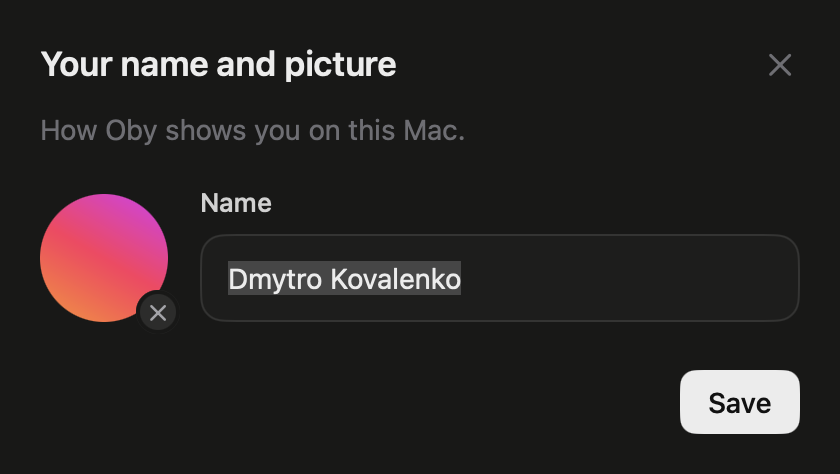
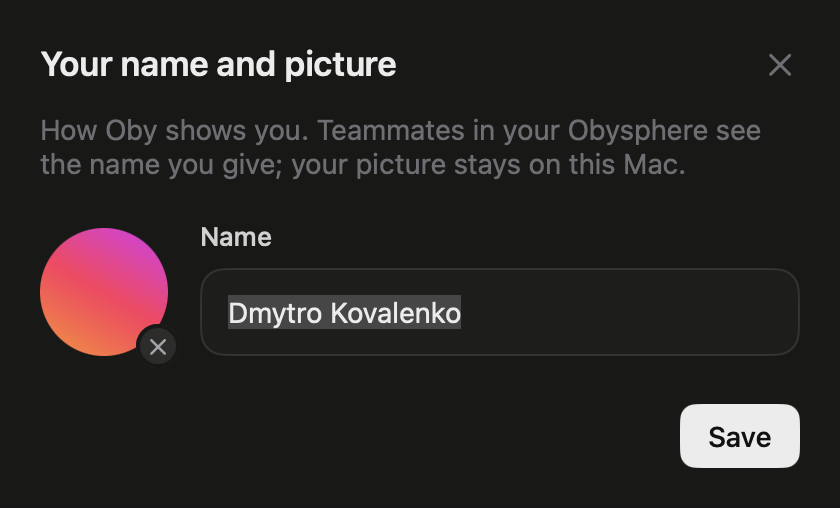
feat(mac): teammates see the name you give in Oby, carried in your Oby's Obysphere card
The card's `name` is "<the name you gave>'s Oby", else "<owner>'s Oby"; never
your macOS name unless you typed it (the sheet now prefills only a name you
gave). The Mac reads the card obid already returns in GET /v1/obid/sphere and
signs a new one, with the same accepts, when its name is behind: at once when
you change it, else at the 5-minute look that already re-signed for the seal
key (sealCard is now renewCard). No protocol or obid change.

Teammates' Macs show the card's name without its "'s Oby" in the Obysphere
panel and Settings › Obysphere, with the owner id in the row's help and the
about line; a name a card can't carry, or none, is the owner id. Where keys
are compared (the key-change card, the compare dialog) the owner id stays.

diff --git a/apps/mac/app/Sphere.swift b/apps/mac/app/Sphere.swift
@@ -505,6 +505,9 @@ final class SphereModel {
         /// does (#1233), and the request types the card accepts.
         var sealing: String?
         var accepts: [String]?
+        /// The owner-signed card obid holds, of which the Mac reads only its name.
+        var card: Card?
+        struct Card: Decodable, Equatable { var name: String? }
     }
 
     /// One entry of the Sphere's directory.
@@ -676,7 +679,7 @@ final class SphereModel {
             guard let obi = entry["obi"] as? String, obi != membership?.obiId, entry["status"] as? String == "active" else { return nil }
             let params = ((entry["card"] as? [String: Any])?["capabilities"] as? [String: Any])
                 .flatMap { ($0["extensions"] as? [[String: Any]])?.first?["params"] as? [String: Any] }
-            return Member(obi: obi, owner: entry["owner"] as? String ?? "", name: (entry["card"] as? [String: Any])?["name"] as? String ?? obi,
+            return Member(obi: obi, owner: entry["owner"] as? String ?? "", name: (entry["card"] as? [String: Any])?["name"] as? String ?? "",
                           active: entry["status"] as? String == "active", accepts: params?["accepts"] as? [String] ?? [])
         }
         // The fingerprints to compare with each person, from the keys obid pinned.
@@ -994,7 +997,7 @@ final class SphereModel {
         for obi in ids {
             do {
                 let made = try await raw(runner, "POST", "v1/obid/sphere/card", [
-                    "url": url, "sphere": invite.sphere, "obiId": obi, "name": "\(owner)'s Oby",
+                    "url": url, "sphere": invite.sphere, "obiId": obi, "name": Self.cardName(owner, given: Profile.shared.given),
                     "ownerKey": key.publicKey, "accepts": Self.accepts,
                 ])
                 guard let card = made["card"] as? [String: Any] else { throw RunnerError(message: "obid made no card.") }
@@ -1077,7 +1080,7 @@ final class SphereModel {
         }
         let key = try OwnerKey.of(membership.owner)
         let made = try await raw(runner, "POST", "v1/obid/sphere/card", [
-            "url": url, "sphere": sphere, "obiId": obi, "name": "\(membership.owner)'s Oby",
+            "url": url, "sphere": sphere, "obiId": obi, "name": Self.cardName(membership.owner, given: Profile.shared.given),
             "ownerKey": key.publicKey, "accepts": sharing ? Self.accepts + ["run_request", "share_offer"] : Self.accepts,
         ])
         guard let card = made["card"] as? [String: Any] else { throw RunnerError(message: "obid made no card.") }
@@ -1114,18 +1117,35 @@ final class SphereModel {
         return true
     }
 
-    /// A new card with obid's seal key, once, when the card obid holds has none (#1233): the same
-    /// `accepts`, signed with this Mac's owner key, so teammates' Obys seal what they send this one.
-    /// Answers whether it signed one.
+    /// What this Mac's Oby is called in its card, which teammates' Obys show (spec identity.md
+    /// section 2: its owner writes it, and a new card may change it): "<the name you gave in Oby>'s
+    /// Oby", else "<owner>'s Oby". Never your macOS name unless you gave it, nor a name a card can't
+    /// carry.
+    nonisolated static func cardName(_ owner: String, given: String) -> String {
+        "\(given.isEmpty || given.unicodeScalars.count > 90 || !isLineText(given) ? owner : given)'s Oby"
+    }
+
+    /// One line a card's `name` may carry (common.schema.json's `line_text`): no control character,
+    /// no bidirectional override or isolate.
+    nonisolated static func isLineText(_ text: String) -> Bool {
+        !text.unicodeScalars.contains { $0.value < 0x20 || $0.value == 0x7F || (0x202A...0x202E).contains($0.value) || (0x2066...0x2069).contains($0.value) }
+    }
+
+    /// A new card, once, when the one obid holds is behind: without obid's seal key (#1233), so
+    /// teammates' Obys seal what they send this one, or with another name than `cardName` (the owner
+    /// changed theirs). The same `accepts`, signed with this Mac's owner key. Answers whether it
+    /// signed one.
     @discardableResult
-    func sealCard() async throws -> Bool {
+    func renewCard() async throws -> Bool {
         let runner = try runner()
         let membership: Membership = try await runner.call("GET", "v1/obid/sphere")
-        guard membership.state == "joined", membership.sealing == "card_needed", let url = membership.url,
+        let name = Self.cardName(membership.owner, given: Profile.shared.given)
+        let renamed = membership.card.map { $0.name != name } ?? false
+        guard membership.state == "joined", membership.sealing == "card_needed" || renamed, let url = membership.url,
               let sphere = membership.sphere, let obi = membership.obiId else { return false }
         let key = try OwnerKey.of(membership.owner)
         let made = try await raw(runner, "POST", "v1/obid/sphere/card", [
-            "url": url, "sphere": sphere, "obiId": obi, "name": "\(membership.owner)'s Oby",
+            "url": url, "sphere": sphere, "obiId": obi, "name": name,
             "ownerKey": key.publicKey, "accepts": membership.accepts ?? Self.accepts,
         ])
         guard let card = made["card"] as? [String: Any] else { throw RunnerError(message: "obid made no card.") }
@@ -1136,7 +1156,7 @@ final class SphereModel {
     /// Keeps this Mac's Oby in its Obysphere past 30 days (#1215): a new delegation at launch, once
     /// obid answers, then every 6 hours once 5 or fewer days are left. And a new card as soon as
     /// obid says `card_needed` (#1233): to say it reads seal keys, or with its own once its team can
-    /// read one, so teammates seal what they send it.
+    /// read one, so teammates seal what they send it; or once its name isn't the owner's (`cardName`).
     static func keepRenewing(feed: RunnerFeed) async {
         let sphere = SphereModel(feed: feed)
         var renewed: Date?
@@ -1145,7 +1165,7 @@ final class SphereModel {
                (try? await sphere.renewDelegation(within: renewed == nil ? .infinity : 5 * 86_400)) != nil {
                 renewed = .now
             }
-            _ = try? await sphere.sealCard()
+            _ = try? await sphere.renewCard()
             // ponytail: polls obid on this Mac; 60 s until it first answers, then every 5 minutes for
             // `card_needed` (obid has no membership event to wait on), the delegation every 6 hours.
             try? await Task.sleep(for: .seconds(renewed == nil ? 60 : 300))

diff --git a/apps/mac/tests/SphereTests.swift b/apps/mac/tests/SphereTests.swift
@@ -55,6 +55,30 @@ struct SphereTests {
         #expect(SpherePanel.shown("well-prado") == "Well-prado")
     }
 
+    /// Your Oby's card carries the name you gave in Oby, else your owner id: never your macOS name,
+    /// nor what a card can't carry (spec common.schema.json `line_text`, at most 100 characters).
+    @Test func aCardIsNamedForWhatYouGave() {
+        #expect(SphereModel.cardName("wellprado", given: "") == "wellprado's Oby")
+        #expect(SphereModel.cardName("wellprado", given: "Wellington Prado") == "Wellington Prado's Oby")
+        #expect(SphereModel.cardName("wellprado", given: "Well\u{202E}odarP") == "wellprado's Oby")
+        #expect(SphereModel.cardName("wellprado", given: "Well\nPrado") == "wellprado's Oby")
+        #expect(SphereModel.cardName("wellprado", given: String(repeating: "W", count: 91)) == "wellprado's Oby")
+    }
+
+    /// Teammates show the name a member's card carries without its "'s Oby", else their owner id;
+    /// a name no Oby would sign is their owner id too.
+    @Test func aMemberShowsTheNameTheyGave() {
+        func member(_ name: String) -> SphereModel.Member { .init(obi: "obi-mallory", owner: "mallory", name: name, active: true, accepts: []) }
+        #expect(SpherePanel.shown(member("Mallory Lima's Oby")) == "Mallory Lima")
+        #expect(SpherePanel.shown(member("mallory's Oby")) == "Mallory")
+        #expect(SpherePanel.shown(member("")) == "Mallory")
+        #expect(SpherePanel.shown(member("'s Oby")) == "Mallory")
+        #expect(SpherePanel.shown(member("Mallory's Obi")) == "Mallory")
+        #expect(SpherePanel.shown(member("\u{202E}yrtmyD's Oby")) == "Mallory")
+        // Their key still goes by their owner id, whatever they're called.
+        #expect(KeyChangeCard.title(SphereModel.Pin(owner: "mallory", fingerprint: "ed25519:a", changedTo: "ed25519:b")) == "Mallory’s Oby has a new key")
+    }
+
     @Test func canonicalJSONIsRFC8785ForTheProtocolsValues() {
         let value: [String: Any] = ["b": [true, false, NSNull()], "a": 1, "é": "x", "c": ["z": "\"\\\n\u{1}/é"]]
         #expect(String(decoding: Canonical.json(value), as: UTF8.self) == #"{"a":1,"b":[true,false,null],"c":{"z":"\"\\\n\u0001/é"},"é":"x"}"#)
@@ -467,14 +491,51 @@ struct SphereTests {
             return (stub, SphereModel(feed: feed))
         }
         let (needed, sphere) = obid(sealing: "card_needed")
-        #expect(try await sphere.sealCard())
+        #expect(try await sphere.renewCard())
         let made = try #require(needed.requests.first { $0.method == "POST" })
         #expect(made.json?["accepts"] as? [String] == ["review_request", "question"])
         let put = try #require(needed.requests.last)
         #expect(put.method == "PUT" && put.json?["card"] != nil && put.json?["delegation"] == nil)
         let (on, sealed) = obid(sealing: "on")
-        #expect(try await !sealed.sealCard())
+        #expect(try await !sealed.renewCard())
         #expect(on.requests.allSatisfy { $0.method == "GET" })
+    }
+
+    /// A card with another name than the one you gave in Oby is signed again once, named for it; one
+    /// already named for it, never.
+    @MainActor @Test func aCardIsSignedAgainForANewName() async throws {
+        let owner = "tester-\(UUID().uuidString.lowercased().prefix(8))"
+        let before = Profile.shared
+        Profile.shared = Profile(defaults: .scratch, file: URL(filePath: NSTemporaryDirectory()).appending(path: "profile-\(UUID().uuidString)"))
+        defer { Profile.shared = before; try? OwnerKey.store.remove(owner) }
+        func obid(named name: String) -> (RunnerStub, SphereModel) {
+            let stub = RunnerStub { request in
+                switch (request.method, request.path) {
+                case ("GET", "/v1/obid/sphere"):
+                    (200, #"{"state": "joined", "owner": "\#(owner)", "url": "https://obysphere.example", "sphere": "acme", "obiId": "obi-\#(owner)", "sealing": "on", "accepts": ["review_request", "question"], "card": {"name": "\#(name)"}}"#)
+                case ("POST", "/v1/obid/sphere/card"): (200, #"{"card": {"name": "a card"}}"#)
+                case ("PUT", "/v1/obid/sphere/membership"): (200, "{}")
+                default: (404, "{}")
+                }
+            }
+            let feed = RunnerFeed()
+            feed.stageAlerts(following: stub.runner)
+            return (stub, SphereModel(feed: feed))
+        }
+        let (unnamed, same) = obid(named: "\(owner)'s Oby")
+        #expect(try await !same.renewCard())
+        #expect(unnamed.requests.allSatisfy { $0.method == "GET" })
+
+        try Profile.shared.save(name: " Ana Lima ", picture: nil)
+        let (old, renamed) = obid(named: "\(owner)'s Oby")
+        #expect(try await renamed.renewCard())
+        let made = try #require(old.requests.first { $0.method == "POST" })
+        #expect(made.json?["name"] as? String == "Ana Lima's Oby")
+        #expect(made.json?["accepts"] as? [String] == ["review_request", "question"])
+        #expect(old.requests.last?.method == "PUT")
+        let (current, kept) = obid(named: "Ana Lima's Oby")
+        #expect(try await !kept.renewCard())
+        #expect(current.requests.allSatisfy { $0.method == "GET" })
     }
 
     /// The Join screen asks a server Oby doesn't know nothing until "I trust" is ticked.

diff --git a/apps/mac/tests/WindowScreens.swift b/apps/mac/tests/WindowScreens.swift
@@ -118,6 +118,50 @@ struct WindowScreens {
         try await shoot("mac-home", model: model(), state: ChatState(defaults: .scratch))
     }
 
+    /// An Obysphere's members on a teammate's Mac, in its side panel and Settings › Obysphere: the
+    /// name each gave in Oby (Dmytro's), else their owner id, which Settings keeps beside it. A
+    /// made-up obid and Obysphere answer; the owner key `ana` signs with is the test's, taken out after.
+    @Test(arguments: ["panel", "settings"])
+    func sphereMembers(_ screen: String) async throws {
+        let owner = "ana"
+        try #require(try OwnerKey.store.value(owner) == nil, "a key for \(owner) is this Mac's own")
+        let before = (Profile.shared, SphereServer.session)
+        let file = URL(filePath: NSTemporaryDirectory()).appending(path: "profile-\(UUID().uuidString)")
+        defer { (Profile.shared, SphereServer.session) = before; try? OwnerKey.store.remove(owner) }
+        Profile.shared = Profile(defaults: .scratch, file: file)
+        try Profile.shared.save(name: "Ana Lima", picture: nil)
+        let members = [("dmytro", "Dmytro Kovalenko's Oby"), ("sangam", "sangam's Oby"), ("ernesto", "ernesto's Oby")]
+        let sphere = RunnerStub { request in
+            switch (request.method, request.path) {
+            case ("POST", "/v0.1/oauth/token"): (200, #"{"access_token": "t", "expires_in": 600}"#)
+            case ("GET", "/v0.1/spheres/screens-deskree"): (200, #"{"name": "Deskree", "admin_owner": "sangam"}"#)
+            case ("GET", "/v0.1/spheres/screens-deskree/members"):
+                (200, String(decoding: try! JSONSerialization.data(withJSONObject: ["members": members.map { owner, name in
+                    ["obi": "obi-\(owner)", "owner": owner, "status": "active", "card": ["name": name]]
+                }]), as: UTF8.self))
+            default: (404, "{}")
+            }
+        }
+        let obid = RunnerStub { request in
+            switch (request.method, request.path) {
+            case ("GET", "/v1/obid/sphere"):
+                (200, #"{"state": "joined", "owner": "\#(owner)", "url": "https://\#(sphere.host)", "sphere": "screens-deskree", "obiId": "obi-\#(owner)", "sealing": "on", "card": {"name": "Ana Lima's Oby"}}"#)
+            case ("GET", "/v1/obid/sphere/pins"):
+                (200, #"[{"owner": "dmytro", "fingerprint": "ed25519:Qm9iI2RteXRybw", "verified": true}, {"owner": "sangam", "fingerprint": "ed25519:c2FuZ2FtI2tleQ", "verified": false}, {"owner": "ernesto", "fingerprint": "ed25519:ZXJuZXN0byNr", "verified": true}]"#)
+            default: (404, "{}")
+            }
+        }
+        let configuration = URLSessionConfiguration.ephemeral
+        configuration.protocolClasses = [RunnerStubProtocol.self] + (configuration.protocolClasses ?? [])
+        SphereServer.session = URLSession(configuration: configuration, delegate: NoRedirects(), delegateQueue: nil)
+
+        let model = model()
+        model.feed.stageAlerts(following: obid.runner)
+        let state = ChatState(defaults: .scratch)
+        if screen == "panel" { state.section = .sphere } else { state.openSettings(.sphere) }
+        try await shoot("mac-sphere-members-\(screen)", model: model, state: state)
+    }
+
     /// Your name and picture: the sheet the account menu's name opens, then Home with them, the
     /// picture at the icon strip's foot. On a profile of the test's own, never the Mac's.
     @Test func yourNameAndPicture() async throws {

diff --git a/apps/mac/app/App/SpherePanel.swift b/apps/mac/app/App/SpherePanel.swift
@@ -27,9 +27,19 @@ struct SpherePanel: View {
     /// "9 members", you included; "1 member" alone.
     nonisolated static func count(_ members: Int) -> String { "\(members) member\(members == 1 ? "" : "s")" }
 
-    /// A member as the Obysphere's screens name them: their owner id, capitalised as a name is
-    /// (the Obysphere keeps no display names, sphere-api.md).
+    /// Someone by their owner id, capitalised as a name is: where you compare their key (a name is
+    /// theirs to write, the owner id is who the Obysphere bound the key to), and for a member who
+    /// gave no name.
     nonisolated static func shown(_ owner: String) -> String { owner.prefix(1).uppercased() + owner.dropFirst() }
+
+    /// A member as the Obysphere's screens name them: the name they gave in Oby, which their card
+    /// carries as "Ana's Oby" (`SphereModel.cardName`), else their owner id. The owner id stays in
+    /// reach: the row's help, Settings' about line.
+    nonisolated static func shown(_ member: SphereModel.Member) -> String {
+        guard member.name.hasSuffix("'s Oby") else { return shown(member.owner) }
+        let name = member.name.dropLast(6).trimmingCharacters(in: .whitespaces)
+        return name.isEmpty || name == member.owner || !SphereModel.isLineText(name) ? shown(member.owner) : name
+    }
 
     var body: some View {
         VStack(alignment: .leading, spacing: 0) {
@@ -209,7 +219,7 @@ private struct InvitedRow: View {
 private struct MemberRow: View {
     let member: SphereModel.Member
 
-    private var shown: String { SpherePanel.shown(member.owner) }
+    private var shown: String { SpherePanel.shown(member) }
 
     var body: some View {
         HStack(spacing: 10) {
@@ -222,10 +232,11 @@ private struct MemberRow: View {
             Spacer(minLength: 0)
             if member.changedTo != nil {
                 Circle().fill(Tokens.needs).frame(width: 6, height: 6)
-                    .help("\(shown)’s key changed: compare it with them, on Home")
+                    .help("\(SpherePanel.shown(member.owner))’s key changed: compare it with them, on Home")
             }
         }
         .padding(.horizontal, 10).frame(height: 34)
+        .help(member.owner)
         .accessibilityElement(children: .combine)
         .accessibilityLabel("\(shown)’s Oby" + (member.changedTo != nil ? ", key changed" : ""))
     }

diff --git a/apps/mac/app/Profile.swift b/apps/mac/app/Profile.swift
@@ -3,10 +3,10 @@ import SwiftUI
 import UniformTypeIdentifiers
 
 /// You, as Oby shows you on this Mac (Sangam's account menu and OwnerAvatar): the name you gave
-/// it, else your macOS name, and your picture, else your initials on your name's colour. Both stay
-/// on this Mac: the Obysphere still knows you by your owner id, which never changes.
-// ponytail: not shared with the Obysphere yet; its card's `name` could carry the name (a re-signed
-// card), a picture needs a field the protocol doesn't have.
+/// it, else your macOS name, and your picture, else your initials on your name's colour. The name
+/// you gave goes to your Obysphere in your Oby's card (`SphereModel.cardName`), your macOS name
+/// never; the Obysphere still knows you by your owner id, which never changes.
+// ponytail: the picture stays on this Mac; sharing it needs a card field the protocol doesn't have.
 @MainActor @Observable final class Profile {
     /// Swapped only by tests and pictures of the window.
     static var shared = Profile()
@@ -84,7 +84,8 @@ struct ProfileSheet: View {
     init(close: @escaping () -> Void) {
         let profile = Profile.shared
         (self.profile, self.close) = (profile, close)
-        (_name, _image) = (State(initialValue: profile.name), State(initialValue: profile.picture))
+        // Only a name you gave: saving a new picture doesn't give your macOS name to the Obysphere.
+        (_name, _image) = (State(initialValue: profile.given), State(initialValue: profile.picture))
     }
 
     private var shown: String {
@@ -100,7 +101,7 @@ struct ProfileSheet: View {
                 IconButton(symbol: "xmark", action: close).keyboardShortcut(.cancelAction).accessibilityLabel("Close")
             }
             .padding(.top, -4).padding(.trailing, -6).padding(.bottom, 8)
-            Text("How Oby shows you on this Mac.")
+            Text("How Oby shows you. Teammates in your Obysphere see the name you give; your picture stays on this Mac.")
                 .font(Tokens.font(Tokens.textBase)).foregroundStyle(Tokens.muted).padding(.bottom, 20)
 
             // The picture beside the name, as the Create sheet's logo: a click chooses one; its badge adds or takes it out.

diff --git a/apps/mac/app/SphereSettings.swift b/apps/mac/app/SphereSettings.swift
@@ -297,7 +297,7 @@ struct SphereSettingsView: View {
                 role(sphere.owner ?? "", you: true)
             }
             ForEach(sphere.members) { member in
-                SetRow(SpherePanel.shown(member.owner), about: Self.memberAbout(member)) {
+                SetRow(SpherePanel.shown(member), about: Self.memberAbout(member)) {
                     if member.changedTo != nil {
                         Button("Compare new key") { comparing = member }.buttonStyle(.set)
                     } else {

diff --git a/apps/mac/app/App/Sidebar.swift b/apps/mac/app/App/Sidebar.swift
@@ -498,6 +498,8 @@ private struct IconStrip: View {
         .help("Account")
         .accessibilityLabel("\(name)’s account")
         .sheet(isPresented: $editingProfile) { ProfileSheet { editingProfile = false } }
+        // A new name reaches teammates now, in a new card, not at the 5-minute look (`keepRenewing`).
+        .onChange(of: Profile.shared.given) { Task { [feed = model.feed] in _ = try? await SphereModel(feed: feed).renewCard() } }
     }
 }
 

diff --git a/docs/runner-api.md b/docs/runner-api.md
@@ -2389,7 +2389,7 @@ The Obi's place in one Sphere: its key, its seal key, its owner-signed agent car
  "tokenExpiresAt": "2026-10-14T13:00:05Z", "lastPoll": "2026-10-14T12:00:40Z", "lastError": null}
 ```
 
-`state` is `none` (no Sphere yet; the other keys null, except `owner`, and `keyId`/`publicKey` once the key exists), `joined` or `revoked` (the Sphere refused its token as revoked). `owner` is who obid acts for in its Sphere: while it keeps a membership, the owner its card names; after it leaves one, the owner it joined as (`home/owner`, 0600, kept across a leave and a restart, since a Sphere refuses that person's rejoin under another id); until it first joins, configuration's `owner`, except that while that is still the Mac's login name (what obid writes at its first start), this call makes it the GitHub login `gh` is signed in as, lower-cased (#1214: a Sphere binds one owner key per owner id, and two people's Macs often share a login name, or have one like `john.doe` that isn't an id). `lastError` is the last thing that went wrong talking to the Sphere, one line, or null. `accepts` is the request types the card accepts. `sealing` is `on` when the card obid holds carries its seal key, so what teammates' Obys send it is sealed for it ("Sealed words", below); `card_needed` when the owner should sign a new card; `waiting` until the Sphere or a teammate can take one with a seal key; null with no membership. A card with a seal key is refused by an obid from before sealing (its schema closes the card's `params`, so that member would vanish for its teammates) and by a Sphere from before it, so obid goes in two steps (spec `identity.md` section 2). Its card's `version` is `0.2.0` from this release on, which says it reads a card with a seal key, and a card from before (`0.1.0`) is `card_needed`: the new one says so. Its seal key goes in a card only once the Sphere's `GET /v0.1/health` says `seal: true` and every other active member's card says `0.2.0` or later (a joining Obi's card never has one); then it's `card_needed` again, and the next card carries it, as does every card after (teammates know this Obi seals, whoever joins later). The Mac app looks every 5 minutes, and seeing `card_needed` signs a new card (`POST /v1/obid/sphere/card`, then `PUT /v1/obid/sphere/membership` with it, the same `accepts`). Once a team seals, a newcomer's Oby must be this release or later to read its teammates' cards.
+`state` is `none` (no Sphere yet; the other keys null, except `owner`, and `keyId`/`publicKey` once the key exists), `joined` or `revoked` (the Sphere refused its token as revoked). `owner` is who obid acts for in its Sphere: while it keeps a membership, the owner its card names; after it leaves one, the owner it joined as (`home/owner`, 0600, kept across a leave and a restart, since a Sphere refuses that person's rejoin under another id); until it first joins, configuration's `owner`, except that while that is still the Mac's login name (what obid writes at its first start), this call makes it the GitHub login `gh` is signed in as, lower-cased (#1214: a Sphere binds one owner key per owner id, and two people's Macs often share a login name, or have one like `john.doe` that isn't an id). `lastError` is the last thing that went wrong talking to the Sphere, one line, or null. `accepts` is the request types the card accepts. `sealing` is `on` when the card obid holds carries its seal key, so what teammates' Obys send it is sealed for it ("Sealed words", below); `card_needed` when the owner should sign a new card; `waiting` until the Sphere or a teammate can take one with a seal key; null with no membership. A card with a seal key is refused by an obid from before sealing (its schema closes the card's `params`, so that member would vanish for its teammates) and by a Sphere from before it, so obid goes in two steps (spec `identity.md` section 2). Its card's `version` is `0.2.0` from this release on, which says it reads a card with a seal key, and a card from before (`0.1.0`) is `card_needed`: the new one says so. Its seal key goes in a card only once the Sphere's `GET /v0.1/health` says `seal: true` and every other active member's card says `0.2.0` or later (a joining Obi's card never has one); then it's `card_needed` again, and the next card carries it, as does every card after (teammates know this Obi seals, whoever joins later). The Mac app looks every 5 minutes, and seeing `card_needed` signs a new card (`POST /v1/obid/sphere/card`, then `PUT /v1/obid/sphere/membership` with it, the same `accepts`). It signs one the same way when `card`'s `name` isn't the one the owner gave in Oby (`<name>'s Oby`, else `<owner>'s Oby`), at once when they change it; teammates' Macs show that name without its `'s Oby`, and the owner id where they compare keys. Once a team seals, a newcomer's Oby must be this release or later to read its teammates' cards.
 
 **Once revoked** (the directory lists this Obi `revoked`), nothing more comes in from the Sphere or goes out to it, and what was open is settled here, its peers not told. obid stops following its deliveries, and a request delivered after the revoke (in the same poll, or a poll alongside) is dropped: it reaches neither the inbox nor a remembered decision. It sends nothing more: replies built before stay unsent. Each incoming request still open ends `declined` with no decline built or sent and `error` `obid's membership was revoked: settled here, and its peer wasn't told.`: one in the inbox (its item done, with no `answer`), a question being answered by itself, and an accepted review (its job stopped, and no result built). The clock still runs: what this Obi sent, and anything else still open, expires at its `expires_at` as before, and a decline the clock builds then never goes. An obid that starts with its membership revoked settles what's open the same way. With no membership at all, the sender and the clock don't run.
 

diff --git a/docs/mac-design.md b/docs/mac-design.md
@@ -161,7 +161,7 @@ What the live app shows today (screenshots `mac-06` to `mac-08`): "Accounts on t
 | A5 | Connectors: the catalogue (Deskree Ops, Tetrix, GitHub, Claude, ChatGPT, Cursor, Slack, Gmail, Google Meet, Zoom) with Connect | only what exists, honestly: accounts, Tetrix, GitHub, plug-ins and connections, with real actions (`Connectors.swift:3-42`) | Needs obid: plug-ins or connections for Slack, Gmail, Meet, Zoom and Deskree Ops; a way for the Mac to add a connection (`POST /v1/connections` signed after Touch ID, the secret entered through A6). Until then, show only what exists | L |
 | B4 | Connectors' look: a search field, Connected and Available, brand logos (`brands.tsx`), "✓ Connected", a Connect button | a `Form` with SF Symbols and more groups (Needs attention, Not confirmed, Available) and long help text (`Settings.swift:419-461`) | Done (#813): the design's ten services, one row each with `brands.tsx`'s marks (`Assets.xcassets/Brands`), Connected and Available. The Mac's honest states (how it's signed in, how to disconnect where Oby has no button) moved to the row's tooltip, Disconnect and the rest to its context menu; under the line only what needs doing. Services A5 doesn't have yet say Coming soon | M |
 | A6 | Vault: names, Remove, Add a secret | writes this Mac's Keychain (`Settings.swift:628-668`), which obid on this Mac reads; nothing for a remote obid | UI only for This Mac. Needs obid for a remote one: a write-only vault API (names listed, a value set once and never returned), signed like a connection | M |
-| B5 | the account menu: your name and email, Settings, Log out | "Name · payer", Accounts…, Integrations…, Settings… (`Sidebar.swift:361-381`) | UI only. Name and this Mac's name (there's no Oby account since 2026-10-20), Settings (A1); no Log out. The name opens your name and picture (`ProfileSheet`, kept on this Mac), which the account's picture, Home's greeting and Settings › Obysphere show | S |
+| B5 | the account menu: your name and email, Settings, Log out | "Name · payer", Accounts…, Integrations…, Settings… (`Sidebar.swift:361-381`) | UI only. Name and this Mac's name (there's no Oby account since 2026-10-20), Settings (A1); no Log out. The name opens your name and picture (`ProfileSheet`), which the account's picture, Home's greeting and Settings › Obysphere show. The name you give goes to your teammates in your Oby's card (`name`, re-signed when it changes), and their Obysphere panel and Settings › Obysphere show it, with your owner id in reach and on the key-change card; the picture stays on this Mac | S |
 | B6 | (none: Sangam has no first launch) | First Launch: hello, talk, permissions, agents and accounts, models, in its own window and system styles (`FirstLaunch.swift:50`) | UI only once A2 and A3 exist: the Agents step adds and signs in obid's accounts; restyle on B1 | M |
 
 ### 2.2 (a) Missing screens and features
